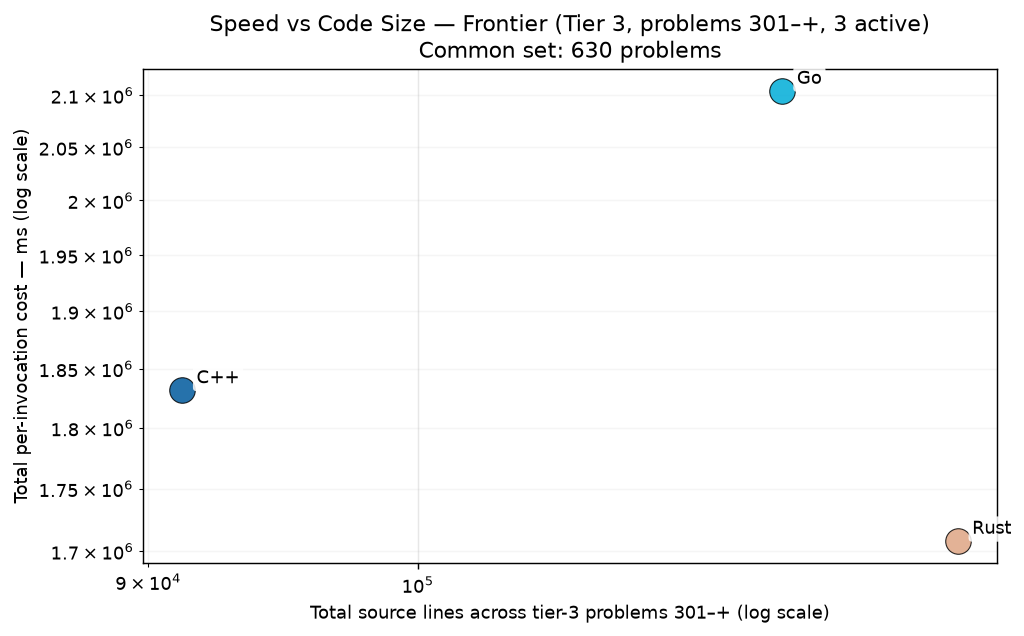
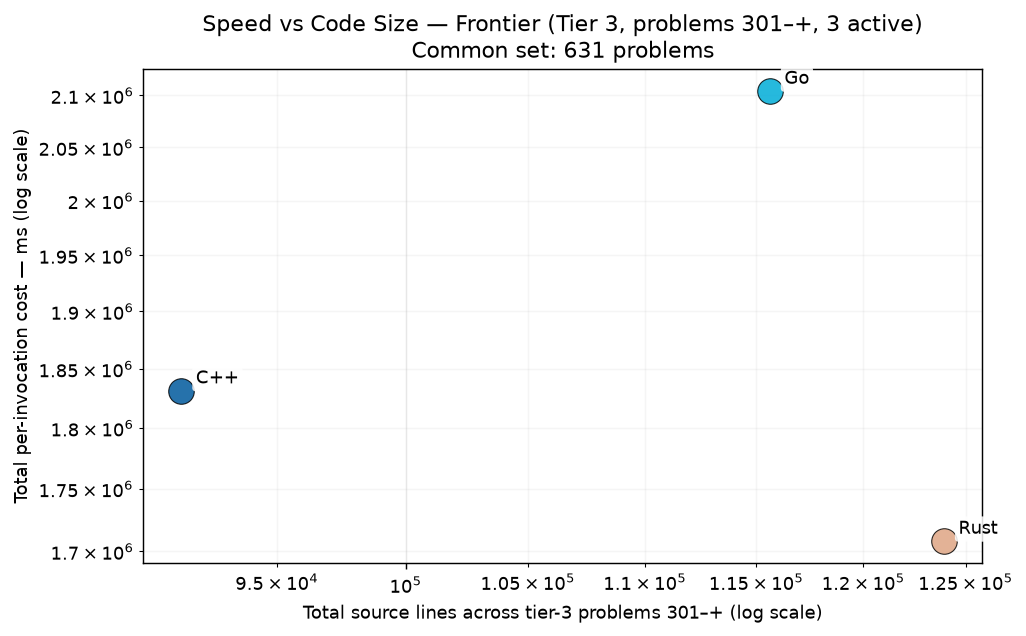
cpp p0707

diff --git a/RESULTS.md b/RESULTS.md
@@ -1,6 +1,6 @@
 # Project Euler — Cross-Language Benchmarks
 
-> **Scope: 4521 in-scope cells across 1007 problems × tiered languages — 4369 measured (96.6% coverage).**
+> **Scope: 4521 in-scope cells across 1007 problems × tiered languages — 4370 measured (96.7% coverage).**
 > The cross-language ranking below is computed over the **200-problem common set** (problems in 1-200 where every language has a passing measurement) — the apples-to-apples Foundation comparison surface.  Per-tier rankings and coverage detail appear further below.
 > Growing carefully — each new problem and language is audited for state-leak
 > safety, verified for answer correctness, and added only when it cleanly fits the
@@ -70,15 +70,15 @@ Same scatter as the Foundation chart, restricted to the tier-2 active languages 
 
 The frontier verification trio — C++, Go, Rust — on problems above 300. 3-way cross-language agreement is the verification protocol (strictly stronger than 2-way; see JOURNEY.md "Tier Reframing" episode for the p254 lesson that motivated it). Python and Zig are explicitly out of this tier — python's wall cost makes it impractical at level 5+, and zig's role caps at Tier 2.
 
-### Per-Invocation Cost (Common Set, 630 of ≤707 problems in scope)
+### Per-Invocation Cost (Common Set, 631 of ≤707 problems in scope)
 
 ![Per-Invocation Cost — Tier 3](charts/per_iter_total_tier3.png)
 
-| Rank | Language | Geomean (630-problem common set) | Total (sum) | Lines of code | vs Fastest |
+| Rank | Language | Geomean (631-problem common set) | Total (sum) | Lines of code | vs Fastest |
 |------|----------|--------------------:|------------:|--------------:|-----------:|
-| 1 | **Rust** | 72.55 ms | 1708.05 s | 123,523 | 1.00× |
-| 2 | **C++** | 74.52 ms | 1831.45 s | 91,199 | 1.03× |
-| 3 | **Go** | 85.53 ms | 2104.07 s | 115,339 | 1.18× |
+| 1 | **Rust** | 72.61 ms | 1708.17 s | 123,927 | 1.00× |
+| 2 | **C++** | 74.06 ms | 1831.45 s | 91,460 | 1.02× |
+| 3 | **Go** | 85.64 ms | 2104.27 s | 115,624 | 1.18× |
 
 ### Speed vs Code Size
 
@@ -264,7 +264,7 @@ table never silently mixes versions (METHODOLOGY.md §4).  Current state of the
 |----------|-----------|------:|---------------|
 | **ARM64** | `Apple clang version 21.0.0 (clang-2100.1.1.101)` | 200 | 2026-07-30 |
 | **C** | `Apple clang version 21.0.0 (clang-2100.1.1.101)` | 200 | 2026-07-30 |
-| **C++** | `Apple clang version 21.0.0 (clang-2100.1.1.101)` | 934 | 2026-09-04 |
+| **C++** | `Apple clang version 21.0.0 (clang-2100.1.1.101)` | 935 | 2026-09-04 |
 | **C#** | `10.0.101` | 200 | 2026-07-30 |
 | **Go** | `go version go1.26.5 darwin/arm64` | 933 | 2026-09-04 |
 | **Java** | `openjdk version "21.0.2" 2024-01-16 LTS` | 200 | 2026-07-30 |

diff --git a/per_problem/per_problem_0701-0800.md b/per_problem/per_problem_0701-0800.md
@@ -14,7 +14,7 @@ in tier-1 display order (native → managed → interpreted).
 | **p0704** | <1 µs | <1 µs | 1.0 µs~ |
 | **p0705** | 676.48 ms | 715.66 ms | 876.28 ms |
 | **p0706** | 13.35 ms | 3.05 ms | 5.42 ms |
-| **p0707** | — | 120.33 ms | 198.92 ms |
+| **p0707** | 1.55 ms | 120.33 ms | 198.92 ms |
 | **p0708** | 329.01 ms | 305.43 ms | 336.80 ms |
 | **p0709** | 1.09 s | 1.93 s | 1.76 s |
 | **p0710** | 13.22 ms | 13.17 ms | 9.29 ms |
